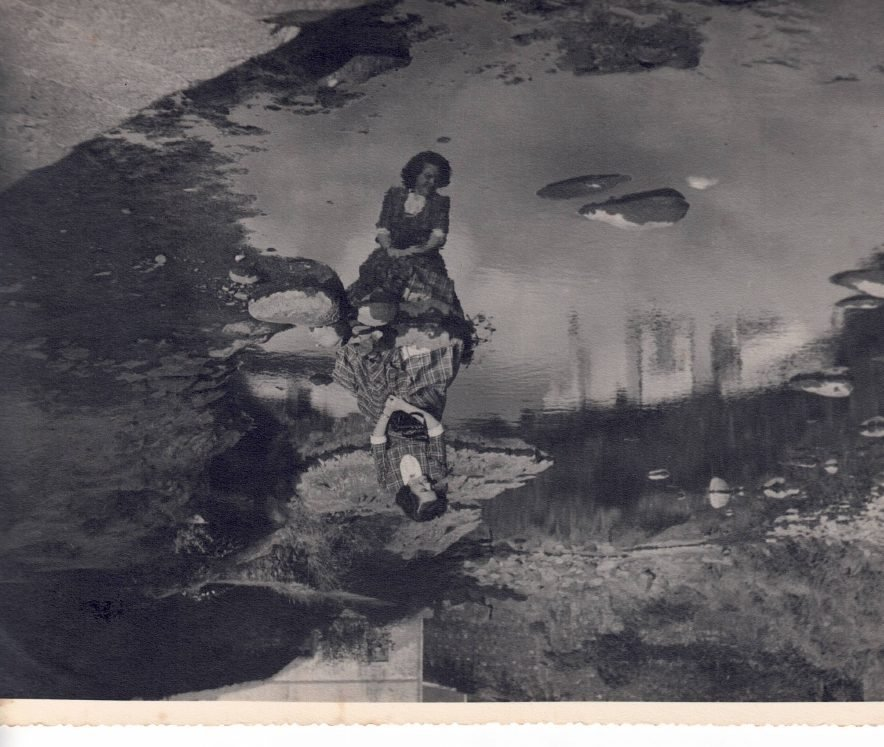
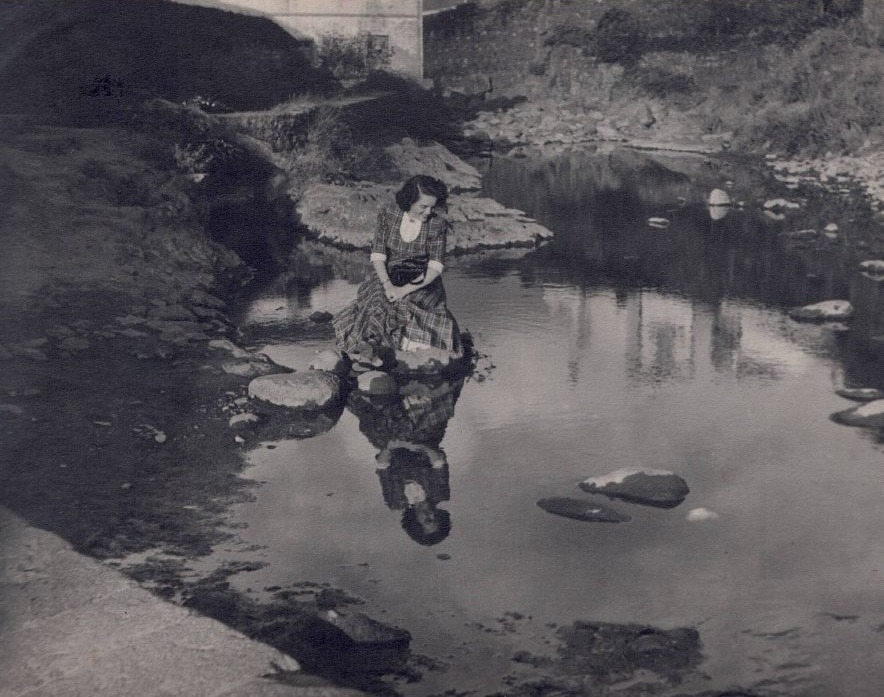
Add files via upload

diff --git a/fotografias.html b/fotografias.html
@@ -45,31 +45,22 @@
   <section class="section"><div class="container">
     <h2>Retratos</h2>
     <div class="gal">
-      <figure class="gal__item"><a href="gageiro-1.jpg" target="_blank" rel="noopener"><img src="gageiro-1.jpg" alt="Retrato de Carlos Wallenstein, mão no queixo" loading="lazy"></a><figcaption>Retrato de Carlos Wallenstein, de uma série realizada na Fundação Calouste Gulbenkian e oferecida ao retratado. <span class="gal__credit">Fotografia de Eduardo Gageiro (autoria a confirmar). Arquivo familiar.</span></figcaption></figure>
       <figure class="gal__item"><a href="gageiro-2.jpg" target="_blank" rel="noopener"><img src="gageiro-2.jpg" alt="Retrato de Carlos Wallenstein, tom sépia" loading="lazy"></a><figcaption>Retrato de Carlos Wallenstein, da mesma série. <span class="gal__credit">Fotografia de Eduardo Gageiro (autoria a confirmar). Arquivo familiar.</span></figcaption></figure>
-      <figure class="gal__item"><a href="retrato-cw-estudio-1.jpg" target="_blank" rel="noopener"><img src="retrato-cw-estudio-1.jpg" alt="Retrato de Carlos Wallenstein jovem, de fato e gravata" loading="lazy"></a><figcaption>Retrato de estúdio. <span class="gal__credit">Arquivo familiar. Fotógrafo e data por identificar.</span></figcaption></figure>
-      <figure class="gal__item"><a href="retrato-cw-estudio-2.jpg" target="_blank" rel="noopener"><img src="retrato-cw-estudio-2.jpg" alt="Retrato de Carlos Wallenstein, de fato e gravata" loading="lazy"></a><figcaption>Retrato de estúdio. <span class="gal__credit">Arquivo familiar. Fotógrafo e data por identificar.</span></figcaption></figure>
-      <figure class="gal__item"><a href="retrato-cw-sombra.jpg" target="_blank" rel="noopener"><img src="retrato-cw-sombra.jpg" alt="Retrato de Carlos Wallenstein em contraluz" loading="lazy"></a><figcaption>Retrato em contraluz. <span class="gal__credit">Arquivo familiar. Fotógrafo e data por identificar.</span></figcaption></figure>
-      <figure class="gal__item"><a href="retrato-cw-perfil.jpg" target="_blank" rel="noopener"><img src="retrato-cw-perfil.jpg" alt="Carlos Wallenstein de perfil, pensativo" loading="lazy"></a><figcaption>De perfil. <span class="gal__credit">Arquivo familiar. Fotógrafo e data por identificar.</span></figcaption></figure>
-      <figure class="gal__item"><a href="retrato-cw-mao-no-rosto.jpg" target="_blank" rel="noopener"><img src="retrato-cw-mao-no-rosto.jpg" alt="Carlos Wallenstein com a mão no rosto" loading="lazy"></a><figcaption>Retrato com a mão no rosto. <span class="gal__credit">Arquivo familiar. Fotógrafo e data por identificar.</span></figcaption></figure>
+      <figure class="gal__item"><a href="retrato-cw-estudio-1.jpg" target="_blank" rel="noopener"><img src="retrato-cw-estudio-1.jpg" alt="Retrato de Carlos Wallenstein jovem, de fato e gravata" loading="lazy"></a><figcaption>Retrato de estúdio, possivelmente para programas ou folhas de sala. <span class="gal__credit">Arquivo familiar. Fotógrafo e data por identificar.</span></figcaption></figure>
+      <figure class="gal__item"><a href="retrato-cw-perfil.jpg" target="_blank" rel="noopener"><img src="retrato-cw-perfil.jpg" alt="Carlos Wallenstein de perfil, pensativo" loading="lazy"></a><figcaption>De perfil, possivelmente para programas ou folhas de sala. <span class="gal__credit">Arquivo familiar. Fotógrafo e data por identificar.</span></figcaption></figure>
+      <figure class="gal__item"><a href="retrato-cw-mao-no-rosto.jpg" target="_blank" rel="noopener"><img src="retrato-cw-mao-no-rosto.jpg" alt="Carlos Wallenstein com a mão no rosto" loading="lazy"></a><figcaption>Retrato com a mão no rosto. <span class="gal__credit">Fotografia de António Damásio, Cascais, meados dos anos 80. Arquivo familiar.</span></figcaption></figure>
       <figure class="gal__item"><a href="retrato-cw-sorriso.jpg" target="_blank" rel="noopener"><img src="retrato-cw-sorriso.jpg" alt="Carlos Wallenstein, retrato de estúdio, olhar para a câmara" loading="lazy"></a><figcaption>Retrato. No verso, a dedicatória manuscrita: «Para a Maria, minha querida, em muito meu, Carl», com a nota «Foto n.º 13, pág. 23», que sugere ter sido preparada para uma publicação. <span class="gal__credit">Arquivo familiar. Fotógrafo e data por identificar.</span></figcaption></figure>
-      <figure class="gal__item"><a href="retrato-cw-cor-1.jpg" target="_blank" rel="noopener"><img src="retrato-cw-cor-1.jpg" alt="Carlos Wallenstein, retrato a cores" loading="lazy"></a><figcaption>Retrato a cores. <span class="gal__credit">Arquivo familiar. Álbum de família; fotógrafo, local e data por identificar.</span></figcaption></figure>
-      <figure class="gal__item"><a href="retrato-cw-cor-2.jpg" target="_blank" rel="noopener"><img src="retrato-cw-cor-2.jpg" alt="Carlos Wallenstein, retrato a cores" loading="lazy"></a><figcaption>Retrato a cores. <span class="gal__credit">Arquivo familiar. Álbum de família; fotógrafo, local e data por identificar.</span></figcaption></figure>
-      <figure class="gal__item"><a href="retrato-cw-cor-3.jpg" target="_blank" rel="noopener"><img src="retrato-cw-cor-3.jpg" alt="Carlos Wallenstein, retrato a cores" loading="lazy"></a><figcaption>Retrato a cores. <span class="gal__credit">Arquivo familiar. Álbum de família; fotógrafo, local e data por identificar.</span></figcaption></figure>
-      <figure class="gal__item"><a href="retrato-cw-cor-4.jpg" target="_blank" rel="noopener"><img src="retrato-cw-cor-4.jpg" alt="Carlos Wallenstein, retrato a cores" loading="lazy"></a><figcaption>Retrato a cores. <span class="gal__credit">Arquivo familiar. Álbum de família; fotógrafo, local e data por identificar.</span></figcaption></figure>
-      <figure class="gal__item"><a href="retrato-cw-cor-5.jpg" target="_blank" rel="noopener"><img src="retrato-cw-cor-5.jpg" alt="Carlos Wallenstein, retrato a cores" loading="lazy"></a><figcaption>Retrato a cores. <span class="gal__credit">Arquivo familiar. Álbum de família; fotógrafo, local e data por identificar.</span></figcaption></figure>
-      <figure class="gal__item"><a href="retrato-cw-cor-6.jpg" target="_blank" rel="noopener"><img src="retrato-cw-cor-6.jpg" alt="Carlos Wallenstein, retrato a cores" loading="lazy"></a><figcaption>Retrato a cores. <span class="gal__credit">Arquivo familiar. Álbum de família; fotógrafo, local e data por identificar.</span></figcaption></figure>
-      <figure class="gal__item"><a href="cw-roupao-alameda.jpg" target="_blank" rel="noopener"><img src="cw-roupao-alameda.jpg" alt="Carlos Wallenstein de roupão, com um cigarro" loading="lazy"></a><figcaption>Carlos Wallenstein em casa, na Alameda das Linhas de Torres, no tempo de <em>Cinco Histórias sem Classificação Especial</em>. <span class="gal__credit">Arquivo familiar. Fotógrafo e data por identificar.</span></figcaption></figure>
-      <figure class="gal__item"><a href="cw-oculos-ar-livre.jpg" target="_blank" rel="noopener"><img src="cw-oculos-ar-livre.jpg" alt="Carlos Wallenstein, de óculos, ao ar livre, numa refeição" loading="lazy"></a><figcaption>Carlos Wallenstein, de óculos, ao ar livre, numa refeição. <span class="gal__credit">Arquivo familiar. Álbum de família; fotógrafo, local e data por identificar.</span></figcaption></figure>
+      <figure class="gal__item"><a href="retrato-cw-cor-3.jpg" target="_blank" rel="noopener"><img src="retrato-cw-cor-3.jpg" alt="Carlos Wallenstein, retrato a cores" loading="lazy"></a><figcaption>Retrato a cores, possivelmente do tempo da Fundação Gulbenkian (anos 60; ver <a href="cronologia.html#a1963">Cronologia</a>). <span class="gal__credit">Arquivo familiar. Álbum de família; fotógrafo, local e data por identificar.</span></figcaption></figure>
+      <figure class="gal__item"><a href="cw-roupao-alameda.jpg" target="_blank" rel="noopener"><img src="cw-roupao-alameda.jpg" alt="Carlos Wallenstein de roupão, com um cigarro" loading="lazy"></a><figcaption>Carlos Wallenstein em casa, na Alameda das Linhas de Torres, no tempo de <em>Cinco Histórias sem Classificação Especial</em> (1953; ver <a href="cronologia.html#a1953-2">Cronologia</a> e o <a href="documentos.html#cinco-historias-do-autor">«Do Autor»</a>). <span class="gal__credit">Arquivo familiar. Fotógrafo e data por identificar.</span></figcaption></figure>
     </div>
   </div></section>
 
   <section class="section"><div class="container">
     <h2>Teatro e amigos</h2>
     <div class="gal">
-      <figure class="gal__item"><a href="principe-homburgo.jpg" target="_blank" rel="noopener"><img src="principe-homburgo.jpg" alt="Carlos Wallenstein em O Príncipe de Homburgo" loading="lazy"></a><figcaption>Carlos Wallenstein caracterizado para <em>O Príncipe de Homburgo</em>, da Companhia Nacional de Teatro (1961), com dedicatória e assinatura. <span class="gal__credit">Fotografia de José Marques (1924–2012). Museu Nacional do Teatro e da Dança, inv. MNTD 236421 (doação de Carlos Bernardino). Outra cópia, no arquivo familiar, traz a mesma assinatura do fotógrafo.</span></figcaption></figure>
+      <figure class="gal__item"><a href="principe-homburgo.jpg" target="_blank" rel="noopener"><img src="principe-homburgo.jpg" alt="Carlos Wallenstein em O Príncipe de Homburgo" loading="lazy"></a><figcaption>Carlos Wallenstein caracterizado para <em>O Príncipe de Homburgo</em>, da Companhia Nacional de Teatro (1961; ver <a href="cronologia.html#a1961">Cronologia</a>), com dedicatória e assinatura. <span class="gal__credit">Fotografia de José Marques (1924–2012). Museu Nacional do Teatro e da Dança, inv. MNTD 236421 (doação de Carlos Bernardino). Outra cópia, no arquivo familiar, traz a mesma assinatura do fotógrafo.</span></figcaption></figure>
             <figure class="gal__item gal__item--wide" id="sasportes-brook"><a href="sasportes-brook.jpg" target="_blank" rel="noopener"><img src="sasportes-brook.jpg" alt="José Sasportes, Carlos Wallenstein e Peter Brook" loading="lazy"></a><figcaption>José Sasportes, Carlos Wallenstein e Peter Brook. Brook esteve em Lisboa em Outubro de 1970, recebido por Carlos Wallenstein em nome da Fundação, para tratar de um protocolo de apoio ao Centro Internacional de Investigação Teatral (CIRT) (<a href="https://www.publico.pt/2022/07/14/culturaipsilon/cronica/peter-brook-encontros-homem-notavel-2013347" target="_blank" rel="noopener">Público, 14-7-2022</a>); a fotografia pode ser dessa visita, por confirmar. <span class="gal__credit">Autor e data por identificar. Arquivo familiar.</span></figcaption></figure>
-      <figure class="gal__item gal__item--wide" id="paris-esplanada"><a href="paris-1968.jpg" target="_blank" rel="noopener"><img src="paris-1968.jpg" alt="Grupo de seis pessoas numa esplanada de Paris" loading="lazy"></a><figcaption>Em Paris, numa esplanada: Rogério Paulo, Canto e Castro, José de Castro, Ruy de Carvalho, uma empregada de mesa e Carlos Wallenstein. Muito possivelmente elementos do elenco de <em>Rei Lear</em>, do Teatro Nacional Popular (encenação de Francisco Ribeiro, Ribeirinho; <a href="https://raiz.museusemonumentos.pt/DetalhesObra/Index/1128366?tipo=OBJ" target="_blank" rel="noopener">programa de 1957, Museu Nacional do Teatro e da Dança</a>), talvez numa digressão de 1957. O motivo e a data exacta da deslocação por confirmar. <span class="gal__credit">Arquivo familiar.</span></figcaption></figure>
+      <figure class="gal__item gal__item--wide" id="paris-esplanada"><a href="paris-1968.jpg" target="_blank" rel="noopener"><img src="paris-1968.jpg" alt="Grupo de seis pessoas numa esplanada de Paris" loading="lazy"></a><figcaption>Em Paris, numa esplanada: Rogério Paulo, Canto e Castro, José de Castro, Ruy de Carvalho, uma empregada de mesa e Carlos Wallenstein. Muito possivelmente elementos do elenco de <em>Rei Lear</em>, do Teatro Nacional Popular (encenação de Francisco Ribeiro, Ribeirinho; <a href="https://raiz.museusemonumentos.pt/DetalhesObra/Index/1128366?tipo=OBJ" target="_blank" rel="noopener">programa de 1957, Museu Nacional do Teatro e da Dança</a>), talvez numa digressão de 1957. O motivo e a data exacta da deslocação por confirmar. Ver a <a href="cronologia.html#a1957">Cronologia</a> (1957 e <a href="cronologia.html#a1961">1961–1962</a>). <span class="gal__credit">Arquivo familiar.</span></figcaption></figure>
     </div>
   </div></section>
 
@@ -79,7 +70,6 @@
       <figure class="gal__item"><a href="cw-c1930-jornal.jpg" target="_blank" rel="noopener"><img src="cw-c1930-jornal.jpg" alt="Carlos Wallenstein em criança, com um jornal" loading="lazy"></a><figcaption>Carlos Wallenstein, c. 1930. <span class="gal__credit">Arquivo familiar.</span></figcaption></figure>
       <figure class="gal__item gal__item--wide"><a href="cw-c1932-irma.jpg" target="_blank" rel="noopener"><img src="cw-c1932-irma.jpg" alt="Carlos Wallenstein criança, com a irmã Margarida" loading="lazy"></a><figcaption>Carlos Wallenstein, c. 1930–31, com a irmã mais nova, Margarida. <span class="gal__credit">Arquivo familiar. Identificação pela memória familiar.</span></figcaption></figure>
       <figure class="gal__item"><a href="assets/menino.wallenstein.jpeg" target="_blank" rel="noopener"><img src="assets/menino.wallenstein.jpeg" alt="Carlos Wallenstein em criança" loading="lazy"></a><figcaption>Carlos Wallenstein, Ponta Delgada, c. 1934. <span class="gal__credit">Arquivo familiar.</span></figcaption></figure>
-      <figure class="gal__item gal__item--wide"><a href="cw-e-paulo.jpg" target="_blank" rel="noopener"><img src="cw-e-paulo.jpg" alt="Carlos Wallenstein e o irmão Paulo" loading="lazy"></a><figcaption>Carlos Wallenstein e o irmão mais novo, Paulo, ainda adolescente (seis anos mais novo). Data por identificar. <span class="gal__credit">Arquivo familiar.</span></figcaption></figure>
             <figure class="gal__item"><a href="cw-ao-colo-do-avo.jpg" target="_blank" rel="noopener"><img src="cw-ao-colo-do-avo.jpg" alt="Carlos Wallenstein em criança, ao colo do avô" loading="lazy"></a><figcaption>Carlos Wallenstein, ainda criança, ao colo do avô, Manuel dos Santos Teixeira. <span class="gal__credit">Arquivo familiar. Fotógrafo e data por identificar.</span></figcaption></figure>
       <figure class="gal__item gal__item--wide" id="grupo-evangelina"><a href="grupo-evangelina-1952.jpg" target="_blank" rel="noopener"><img src="grupo-evangelina-1952.jpg" alt="Grupo de família ao ar livre, com a avó Evangelina ao centro" loading="lazy"></a><figcaption>Grupo de família ao ar livre, com Carlos Wallenstein, Maria do Bom Sucesso, o irmão Fernando e Leonor Travassos Silva (que casaria com ele em 1954); posições a identificar. Ao centro, a avó, Evangelina Maria Simões Teixeira, a quem o autor dedica <em>O Amor das Três Laranjas</em> («às Evangelinas das Furnas»: a avó e uma criada idosa, muito estimada, com o mesmo nome; ver a <a href="documentos.html#dois-actos">dedicatória</a> e <a href="origens.html#evangelina">Origens e família</a>). <span class="gal__credit">Arquivo familiar. Data no verso: 14 de Setembro de 1952.</span></figcaption></figure>
       <figure class="gal__item gal__item--wide"><a href="retrato-familia-wallenstein.jpg" target="_blank" rel="noopener"><img src="retrato-familia-wallenstein.jpg" alt="Retrato de família: quatro homens sentados e duas mulheres de pé, atrás" loading="lazy"></a><figcaption>Retrato de família. Da esquerda para a direita: Carlos Manuel, Paulo Cristiano (o irmão mais novo), Clara Wallenstein (a mãe), José dos Santos Teixeira (o pai) e Fernando Gustavo (o irmão do meio); atrás, a tia Guida (Margarida Wallenstein), uma espécie de segunda mãe de todos eles. <span class="gal__credit">Arquivo familiar. Fotógrafo e data por identificar.</span></figcaption></figure>
@@ -90,13 +80,13 @@
     <h2 id="maria">Maria do Bom Sucesso Medeiros Franco</h2>
     <p class="muted">Maria Wallenstein foi esteio e retaguarda de Carlos Wallenstein toda a vida, e a sua paixão pelo teatro, pela poesia e pela literatura (estudou o teatro popular em S. Miguel, tema da sua tese) fez dela mais do que companheira: estudavam papéis e dramaturgia, traduziam a quatro mãos, e era o princípio da realidade e a aglutinadora da família. Artista desde a adolescência, nos anos quarenta formou com as irmãs, Maria Antónia e Maria do Carmo, um trio vocal («as três Marias», ou «as meninas da rádio»), que cantava a vozes nas emissões da rádio regional açoriana, com arranjos e harmonizações do pai, António de Medeiros Franco (jurista, notário, advogado, político republicano e senador, grande melómano, regente coral e impulsionador do movimento filarmónico nos Açores).</p>
     <div class="gal">
-      <figure class="gal__item gal__item--small"><a href="maria-tres-marias-radio.jpg" target="_blank" rel="noopener"><img src="maria-tres-marias-radio.jpg" alt="As três irmãs junto a um microfone" loading="lazy"></a><figcaption>As «três Marias», junto ao microfone: Maria do Bom Sucesso, Maria Antónia e Maria do Carmo (posições a identificar). <span class="gal__credit">Arquivo familiar. Data por identificar (anos 40).</span></figcaption></figure>
-      <figure class="gal__item"><a href="maria-tres-marias.jpg" target="_blank" rel="noopener"><img src="maria-tres-marias.jpg" alt="As três irmãs, retrato de estúdio" loading="lazy"></a><figcaption>As três irmãs em retrato de estúdio. Numa das fotografias, no verso: «Julho 1947, Mª do Bom Sucesso». <span class="gal__credit">Arquivo familiar.</span></figcaption></figure>
-      <figure class="gal__item gal__item--small"><a href="maria-pai-jornal.jpg" target="_blank" rel="noopener"><img src="maria-pai-jornal.jpg" alt="Homem a ler um jornal à porta de casa, com uma rapariga ao fundo" loading="lazy"></a><figcaption>Possivelmente António de Medeiros Franco, pai de Maria, a ler o jornal (a confirmar). Ver <a href="origens.html">Origens e família</a>. <span class="gal__credit">Arquivo familiar. Data por identificar.</span></figcaption></figure>
-      <figure class="gal__item"><a href="maria-bom-sucesso-1952.jpg" target="_blank" rel="noopener"><img src="maria-bom-sucesso-1952.jpg" alt="Maria do Bom Sucesso Medeiros Franco, 1952" loading="lazy"></a><figcaption>Maria do Bom Sucesso Medeiros Franco, 1952, mulher de Carlos Wallenstein e responsável pela edição de 1998–2000 das <em>Obras Completas</em>. <span class="gal__credit">Arquivo familiar.</span></figcaption></figure>
+      <figure class="gal__item gal__item--small"><a href="maria-tres-marias-radio.jpg" target="_blank" rel="noopener"><img src="maria-tres-marias-radio.jpg" alt="As três irmãs junto a um microfone" loading="lazy"></a><figcaption>As «três Marias», junto ao microfone. Da esquerda para a direita: Maria do Carmo, Maria Antónia e Maria do Bom Sucesso. <span class="gal__credit">Arquivo familiar. Data por identificar (anos 40).</span></figcaption></figure>
+      <figure class="gal__item gal__item--small"><a href="maria-pai-jornal.jpg" target="_blank" rel="noopener"><img src="maria-pai-jornal.jpg" alt="Homem a ler um jornal à porta de casa, com uma rapariga ao fundo" loading="lazy"></a><figcaption>António de Medeiros Franco (1882–1959), pai de Maria, advogado e político republicano da Ribeira Grande, a ler o jornal. Ver <a href="https://pt.wikipedia.org/wiki/Ant%C3%B3nio_de_Medeiros_Franco" target="_blank" rel="noopener">Wikipédia</a> e <a href="origens.html">Origens e família</a>. <span class="gal__credit">Arquivo familiar. Data por identificar.</span></figcaption></figure>
+      <figure class="gal__item"><a href="maria-bom-sucesso-1952.jpg" target="_blank" rel="noopener"><img src="maria-bom-sucesso-1952.jpg" alt="Maria do Bom Sucesso Medeiros Franco, 1952" loading="lazy"></a><figcaption>Maria do Bom Sucesso Medeiros Franco, 1952, mulher de Carlos Wallenstein e responsável pela edição de 1998–2000 das <em>Obras Completas</em> (ver <a href="creditos.html">Créditos</a>). <span class="gal__credit">Arquivo familiar.</span></figcaption></figure>
       <figure class="gal__item"><a href="maria-casamento.jpg" target="_blank" rel="noopener"><img src="maria-casamento.jpg" alt="Carlos Wallenstein e Maria à saída do casamento" loading="lazy"></a><figcaption>À saída do casamento, a 20 de Setembro de 1953, na Ermida de Nossa Senhora do Bom Sucesso (Ribeira Seca, Ribeira Grande): a cumplicidade e o afecto entre os dois. <span class="gal__credit">Arquivo familiar. Fotógrafo por identificar.</span></figcaption></figure>
       <figure class="gal__item gal__item--wide"><a href="quinta-fenais-1958.jpg" target="_blank" rel="noopener"><img src="quinta-fenais-1958.jpg" alt="Carlos Wallenstein e a mulher, Maria, na Quinta dos Fenais, julho de 1958" loading="lazy"></a><figcaption>Carlos Wallenstein e a mulher, Maria, na quinta de família, nos Fenais, julho de 1958 (data manuscrita no álbum). <span class="gal__credit">Arquivo familiar.</span></figcaption></figure>
-      <figure class="gal__item"><a href="maria-reflexo.jpg" target="_blank" rel="noopener"><img src="maria-reflexo.jpg" alt="Mulher sentada à beira de água, com o reflexo" loading="lazy"></a><figcaption>Maria à beira de água. No verso desta fotografia, Carlos Wallenstein copiou o poema «A água do rio espelhou a tua face…» (ver <a href="documentos.html">Documentos</a>). <span class="gal__credit">Arquivo familiar. Fotógrafo e data por identificar.</span></figcaption></figure>
+      <figure class="gal__item"><a href="maria-reflexo.jpg" target="_blank" rel="noopener"><img src="maria-reflexo.jpg" alt="Mulher sentada à beira de água, com o reflexo" loading="lazy"></a><figcaption>Maria à beira de água. No verso desta fotografia, Carlos Wallenstein escreveu, no momento, o poema ao lado. <span class="gal__credit">Arquivo familiar. Fotógrafo e data por identificar.</span></figcaption></figure>
+      <figure class="gal__item"><a href="poema-agua-do-rio.jpg" target="_blank" rel="noopener"><img src="poema-agua-do-rio.jpg" alt="Poema manuscrito de Carlos Wallenstein, A água do rio espelhou a tua face" loading="lazy"></a><figcaption>Poema manuscrito, no verso da fotografia, assinado «Carlos Wallenstein»: «A água do rio espelhou a tua face e os teus seios, / minha amada, / quando te debruçaste para beber / à sombra dos salgueiros. // Na foz do rio espero eternamente / que as águas / me tragam consigo a tua imagem…» <span class="gal__credit">Arquivo familiar. Data por identificar. Possivelmente inédito, a confirmar.</span></figcaption></figure>
     </div>
   </div></section>
 
@@ -104,17 +94,10 @@
     <h2>Viagens e Fundação Gulbenkian</h2>
     <div class="gal">
       <figure class="gal__item"><a href="bagdad-babilonia.jpg" target="_blank" rel="noopener"><img src="bagdad-babilonia.jpg" alt="Carlos Wallenstein junto à Porta de Ishtar, Babilónia" loading="lazy"></a><figcaption>Carlos Wallenstein junto à Porta de Ishtar, em Babilónia (Iraque), numa deslocação em representação da Fundação Calouste Gulbenkian. Nota manuscrita no verso: «Campo de futebol, Bagdad» e uma data que se lê 1966 (a confirmar). <span class="gal__credit">Arquivo familiar.</span></figcaption></figure>
-      <figure class="gal__item"><a href="cw-katmandu-1970.jpg" target="_blank" rel="noopener"><img src="cw-katmandu-1970.jpg" alt="Carlos Wallenstein com o seu sherpa, numa rua de Katmandu" loading="lazy"></a><figcaption>Carlos Wallenstein com o seu «sherpa», em Katmandu (Nepal), 1970. <span class="gal__credit">Arquivo familiar. Fotógrafo por identificar.</span></figcaption></figure>
+      <figure class="gal__item"><a href="cw-katmandu-1970.jpg" target="_blank" rel="noopener"><img src="cw-katmandu-1970.jpg" alt="Carlos Wallenstein com o seu sherpa, numa rua de Katmandu" loading="lazy"></a><figcaption>Carlos Wallenstein com o seu «sherpa», em Katmandu (Nepal), 1970, no regresso de Osaka pela Índia e pelo Nepal. <span class="gal__credit">Arquivo familiar. Fotógrafo por identificar.</span></figcaption></figure>
       <figure class="gal__item gal__item--wide"><a href="gusmao-cw-mendes-carvalho.jpg" target="_blank" rel="noopener"><img src="gusmao-cw-mendes-carvalho.jpg" alt="Três homens sentados, com chávenas, no refeitório da Fundação Gulbenkian" loading="lazy"></a><figcaption>Fernando de Azevedo, Carlos Wallenstein e Armindo Mendes de Carvalho (da esquerda para a direita, a confirmar), no refeitório da Fundação Calouste Gulbenkian, provavelmente no tempo do Levantamento Cultural do País. Nota no verso: 1977. <span class="gal__credit">Arquivo familiar. Fotógrafo por identificar.</span></figcaption></figure>
       <figure class="gal__item gal__item--wide" id="ballet-fenais-1968"><a href="ballet-gulbenkian-fenais-1968.jpg" target="_blank" rel="noopener"><img src="ballet-gulbenkian-fenais-1968.jpg" alt="Grupo de bailarinos do Ballet Gulbenkian nos Fenais da Luz, S. Miguel" loading="lazy"></a><figcaption>Bailarinos do Ballet Gulbenkian nos Fenais da Luz (S. Miguel), durante a digressão da companhia aos Açores. No verso: «Jantar, Fenais da Luz – S. Miguel, 14-7-968, “Vila Clara”» (o ano deve ler-se 1968). O jantar foi oferecido à companhia a convite de Carlos Wallenstein. Entre outros: Carla Galindo, Marta Athaíde, Isabel Queiroz, Isabel Santa-Rosa, Carlos Trincheiras e Carlos Caldas (identificação por antigos bailarinos do Ballet Gulbenkian). «Vila Clara» é o nome que o verso dá ao local; não era o nome que a família usava para a quinta. <span class="gal__credit">Arquivo familiar. Cópia em papel fotográfico de álbum, de má qualidade.</span></figcaption></figure>
       <figure class="gal__item gal__item--wide" id="marta-athaide-cw"><a href="marta-athaide-cw-1968.jpg" target="_blank" rel="noopener"><img src="marta-athaide-cw-1968.jpg" alt="Marta Athaíde e Carlos Wallenstein" loading="lazy"></a><figcaption>Marta Athaíde (bailarina do Ballet Gulbenkian) e Carlos Wallenstein, provavelmente no mesmo jantar. Ver a <a href="cronologia.html#a1968">Cronologia</a>. <span class="gal__credit">Arquivo familiar. Fotógrafo e data por confirmar.</span></figcaption></figure>
-    </div>
-  </div></section>
-
-  <section class="section"><div class="container">
-    <h2>Memória</h2>
-    <div class="gal">
-      <figure class="gal__item"><a href="placa-rua-carlos-wallenstein.jpg" target="_blank" rel="noopener"><img src="placa-rua-carlos-wallenstein.jpg" alt="Placa toponímica da Rua Carlos Wallenstein" loading="lazy"></a><figcaption>Placa da Rua Carlos Wallenstein, «Actor» (4.4.1926 – 6.11.1990), em Carnaxide, Oeiras. A inauguração foi posterior à sua morte (data por confirmar). O nome de Carlos Wallenstein figura também no Parque dos Poetas, em Oeiras. <span class="gal__credit">Arquivo familiar.</span></figcaption></figure>
     </div>
   </div></section>
 

diff --git a/documentos.html b/documentos.html
@@ -89,13 +89,6 @@
     </div>
   </div></section>
 
-  <section class="section"><div class="container">
-    <h2>Manuscritos e inéditos</h2>
-    <div class="gal">
-      <figure class="gal__item"><a href="poema-agua-do-rio.jpg" target="_blank" rel="noopener"><img src="poema-agua-do-rio.jpg" alt="Poema manuscrito de Carlos Wallenstein, A água do rio espelhou a tua face" loading="lazy"></a><figcaption>Poema manuscrito de Carlos Wallenstein, copiado também no verso de uma fotografia de Maria (ver <a href="fotografias.html">Fotografias</a>): «A água do rio espelhou a tua face e os teus seios, / minha amada, / quando te debruçaste para beber / à sombra dos salgueiros. // Na foz do rio espero eternamente / que as águas / me tragam consigo a tua imagem…» — manuscrito assinado «Carlos Wallenstein», com o título «Poema». <span class="gal__credit">Arquivo familiar. Data por identificar. Possivelmente inédito, a confirmar.</span></figcaption></figure>
-    </div>
-  </div></section>
-
   <section class="section" id="serrana"><div class="container">
     <h2>Encenação: <em>Serrana</em></h2>
     <p class="muted">Partitura de canto e piano de <em>Serrana</em>, drama lírico de Alfredo Keil (versos de Henrique Lopes de Mendonça), com carimbo do Arquivo Musical do Teatro Nacional de S. Carlos, usada por Carlos Wallenstein nas suas encenações: tem notas de encenação a verde e um texto dactilografado de reflexão sobre o trabalho (talvez um esboço para o programa de S. Carlos; por confirmar).</p>
